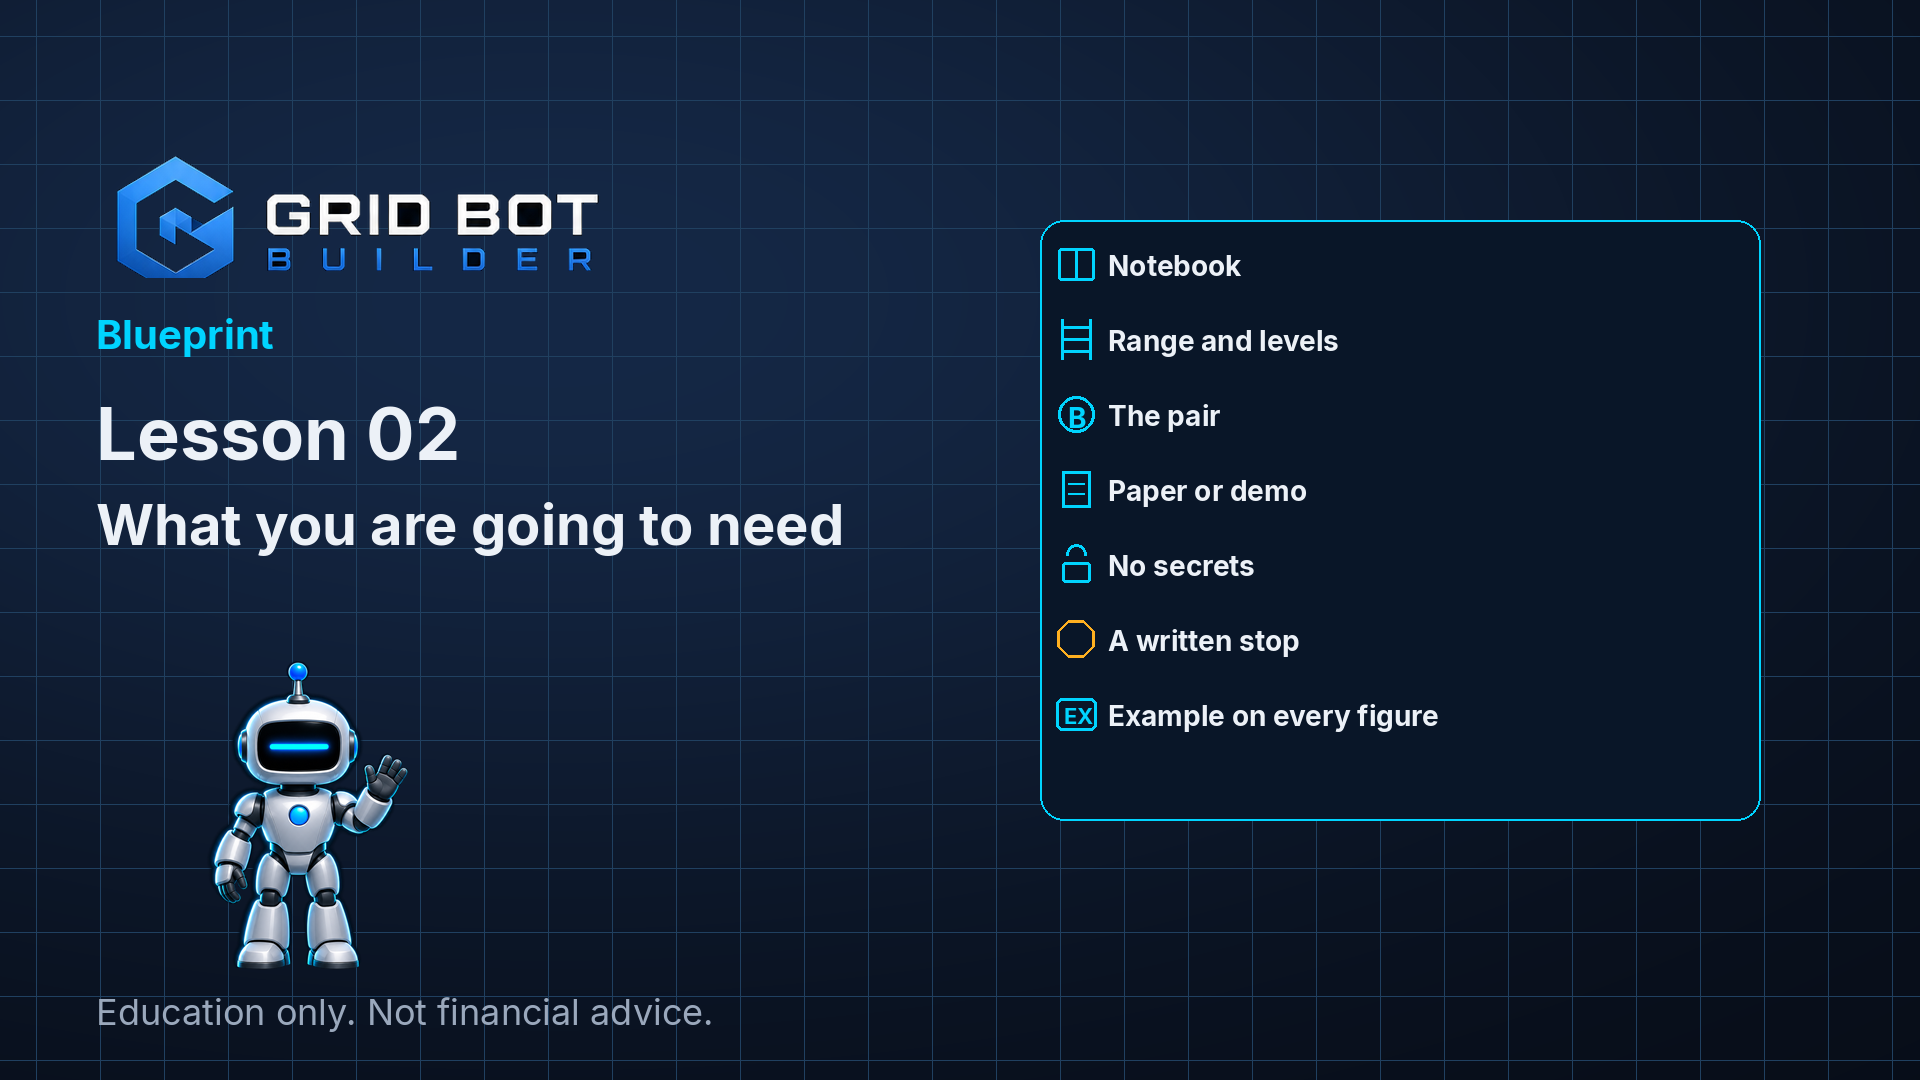
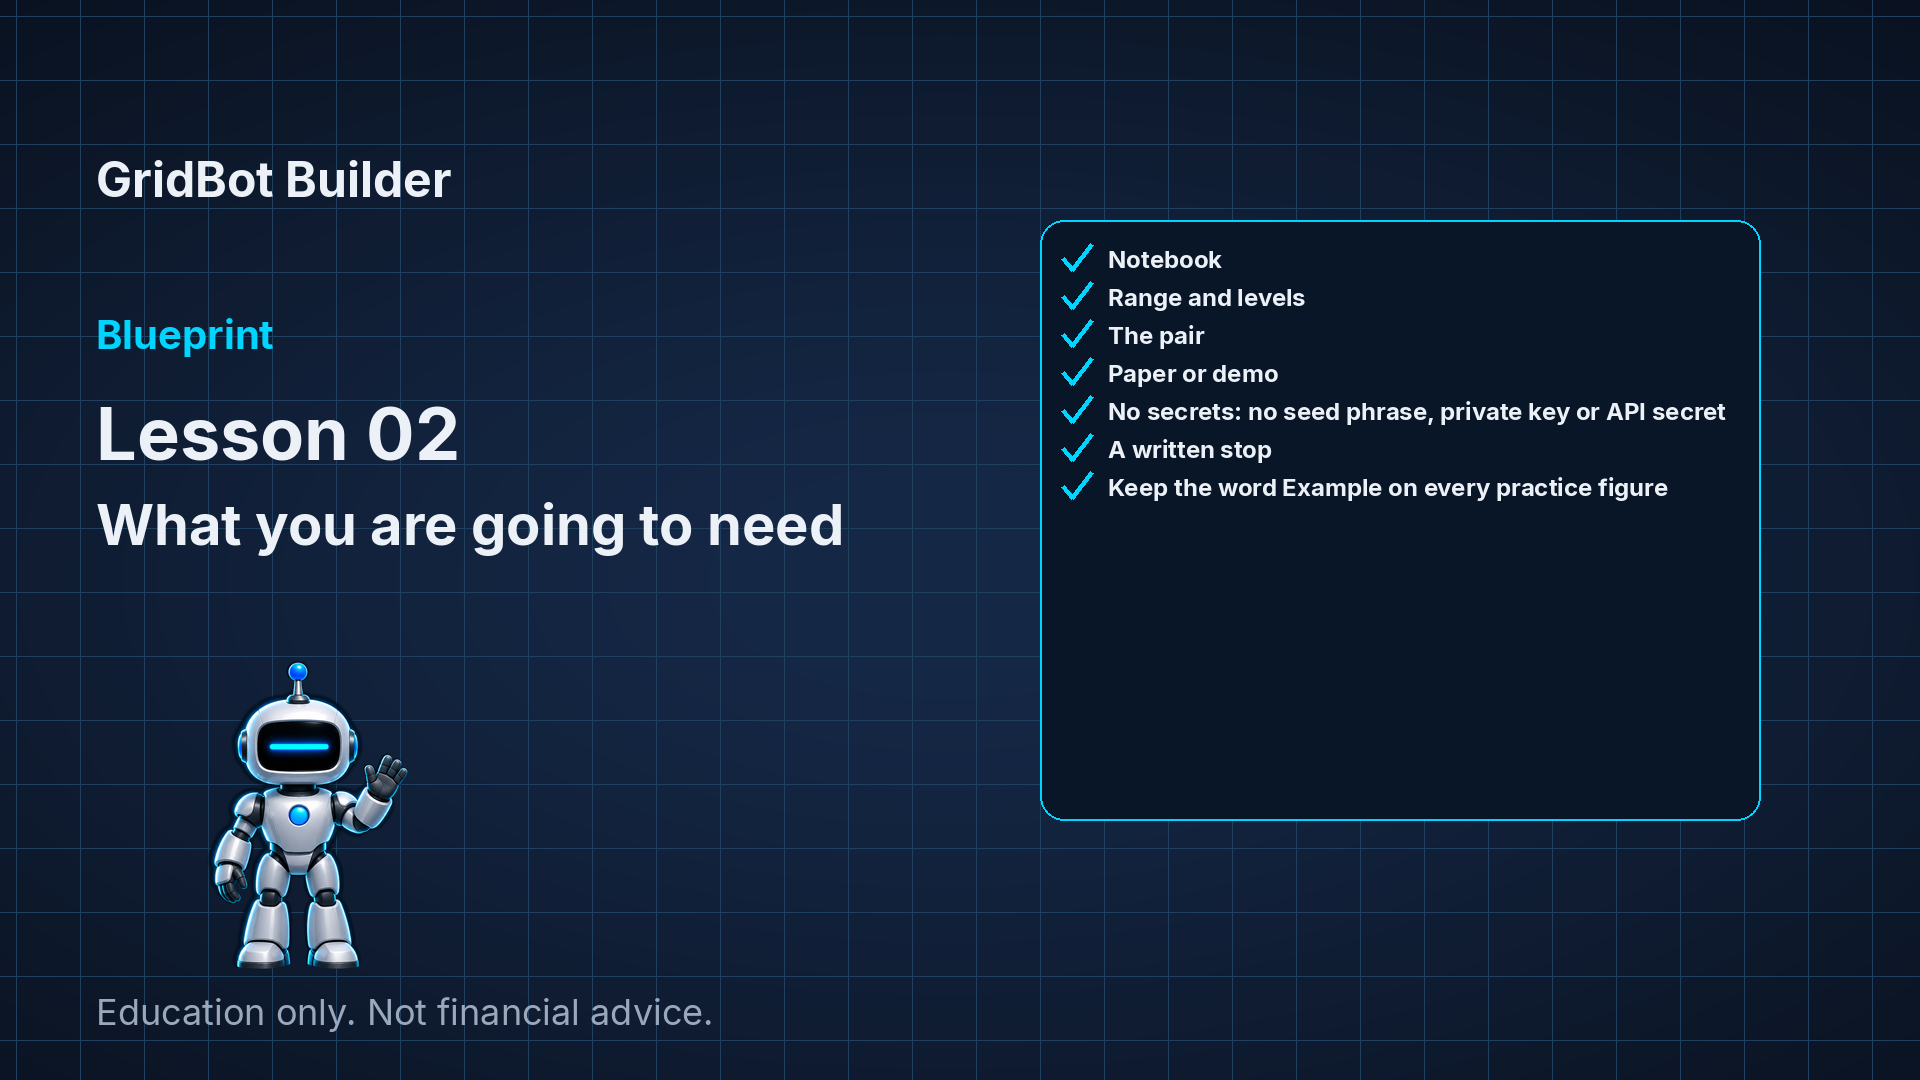
Recolour the ten BP-02 stills Creative Studio failed.
Navy, cyan and white only. The checklist, band card and say-the-page card match the lesson. The two pictures that passed are unchanged, and BP-02 is not rendered.

diff --git a/course/blueprint-rebuild/studio.py b/course/blueprint-rebuild/studio.py
@@ -1445,8 +1445,8 @@ def paint_disclaimer(base: Image.Image, shot: dict, local: float) -> None:
 
 
 def _tick(draw: ImageDraw.ImageDraw, x: int, y: int) -> None:
-    """A plain tick. The old checklist used letter marks such as B and EX."""
-    draw.line([(x - 14, y), (x - 4, y + 12), (x + 16, y - 14)], fill=MINT, width=4)
+    """A plain tick. Navy, cyan and white only."""
+    draw.line([(x - 14, y), (x - 4, y + 12), (x + 16, y - 14)], fill=CYAN, width=4)
 
 
 def _row_icon(draw: ImageDraw.ImageDraw, x: int, y: int, kind: str) -> None:
@@ -1473,10 +1473,29 @@ def _row_icon(draw: ImageDraw.ImageDraw, x: int, y: int, kind: str) -> None:
         draw.rounded_rectangle([x - 14, y - 2, x + 14, y + 18], 3, outline=CYAN, width=3)
         draw.arc([x - 10, y - 20, x + 10, y + 2], 180, 0, fill=CYAN, width=3)
     elif kind == "stop":
-        draw.regular_polygon((x, y, 20), 8, outline=AMBER, width=3)
+        draw.regular_polygon((x, y, 20), 8, outline=WHITE, width=3)
+        draw.regular_polygon((x, y, 12), 8, outline=CYAN, width=3)
     else:
         draw.rounded_rectangle([x - 20, y - 16, x + 20, y + 16], 6, outline=CYAN, width=3)
         draw.text((x - 12, y - 12), "EX", font=font(22), fill=CYAN)
+
+
+def paint_copy_band(base: Image.Image) -> None:
+    """The page copies the band, not every day's price."""
+    draw = ImageDraw.Draw(base)
+    box = (MX, 200, RIGHT, 760)
+    draw.rounded_rectangle(box, 22, fill=GLASS, outline=CYAN, width=2)
+    draw.text((box[0] + 36, box[1] + 28), "Copy the band", font=font(48), fill=WHITE)
+    rows = (
+        "Top 30,331",
+        "Bottom 24,930",
+        "Six gaps of about 900",
+    )
+    y = box[1] + 140
+    for row in rows:
+        draw.text((box[0] + 36, y), row, font=font(40), fill=CYAN)
+        y += 80
+    _example(draw, box[0] + 36, y + 20)
 
 
 def paint_board(base: Image.Image, shot: dict) -> None:
@@ -1493,34 +1512,50 @@ def paint_board(base: Image.Image, shot: dict) -> None:
             "6. The stop, written as a sentence.",
             "7. The word Example on every figure.",
         ]
-        draw.text((MX + 80, 186), "These are the seven lines on the page.", font=font(32), fill=WHITE)
+        draw.text((MX + 80, 186), "Seven items", font=font(40), fill=WHITE)
         y = 240
         for row in rows:
             draw.rounded_rectangle([MX, y, RIGHT, y + 68], 12, fill=GLASS, outline=LINE, width=2)
             _tick(draw, 130, y + 34)
             draw.text((188, y + 16), row, font=font(32), fill=WHITE)
-            draw.ellipse([1760, y + 16, 1796, y + 52], outline=MINT, width=3)
-            draw.line([(1768, y + 34), (1778, y + 44), (1790, y + 24)], fill=MINT, width=3)
+            draw.ellipse([1760, y + 16, 1796, y + 52], outline=CYAN, width=3)
+            draw.line([(1768, y + 34), (1778, y + 44), (1790, y + 24)], fill=CYAN, width=3)
             y += 76
         return
     if board == "no-secrets":
-        draw.text((MX, 176), "Never on the page", font=font(32), fill=AMBER)
-        draw.text((1040, 176), "Allowed on the page", font=font(32), fill=MINT)
+        draw.text((MX, 176), "Never on the page", font=font(32), fill=WHITE)
+        draw.text((1040, 176), "Allowed on the page", font=font(32), fill=CYAN)
         banned = ["Seed phrase", "Private key", "API secret", "Account balance"]
         allowed = ["Public daily close", "The word Example", "A figure marked Example"]
         y = 230
         for text in banned:
-            draw.rounded_rectangle([MX, y, 980, y + 100], 14, fill=GLASS, outline=AMBER, width=2)
-            draw.line([(MX + 28, y + 28), (MX + 56, y + 56)], fill=AMBER, width=4)
-            draw.line([(MX + 56, y + 28), (MX + 28, y + 56)], fill=AMBER, width=4)
+            draw.rounded_rectangle([MX, y, 980, y + 100], 14, fill=GLASS, outline=WHITE, width=2)
+            draw.line([(MX + 28, y + 28), (MX + 56, y + 56)], fill=WHITE, width=4)
+            draw.line([(MX + 56, y + 28), (MX + 28, y + 56)], fill=WHITE, width=4)
             draw.text((MX + 76, y + 30), text, font=font(36), fill=WHITE)
             y += 112
         y = 230
         for text in allowed:
-            draw.rounded_rectangle([1040, y, RIGHT, y + 100], 14, fill=GLASS, outline=MINT, width=2)
-            draw.line([(1070, y + 52), (1082, y + 64), (1102, y + 36)], fill=MINT, width=4)
+            draw.rounded_rectangle([1040, y, RIGHT, y + 100], 14, fill=GLASS, outline=CYAN, width=2)
+            draw.line([(1070, y + 52), (1082, y + 64), (1102, y + 36)], fill=CYAN, width=4)
             draw.text((1120, y + 30), text, font=font(32), fill=WHITE)
             y += 112
+        return
+    if board == "say-the-page":
+        draw.text((MX, 180), "Say the page", font=font(40), fill=WHITE)
+        rows = (
+            "Pair: bitcoin, public daily closes.",
+            "Band: 24,930 to 30,331.",
+            "Gaps: six, about 900.",
+            "Stop: two daily closes outside, then stop the bot.",
+            "No secrets on this page.",
+        )
+        y = 260
+        for row in rows:
+            draw.rounded_rectangle([MX, y, RIGHT, y + 88], 14, fill=GLASS, outline=CYAN, width=2)
+            draw.text((MX + 28, y + 24), row, font=font(32), fill=WHITE)
+            y += 100
+        _example(draw, MX, y + 8)
         return
     if board == "three-words":
         cards = [
@@ -1875,23 +1910,30 @@ def paint_analogy(base: Image.Image, shot: dict, local: float, dur: float) -> No
     origin = (MX, 230)
     kind = shot.get("analogy") or ""
     if kind == "list":
-        still = shot.get("still")
-        if still:
-            panel, _ox, _oy, _scale = _contain(load_picture(Path(still)).convert("RGB"), pw, ph)
-            base.paste(panel, origin)
-            _retouch_analogy(draw, "list", origin)
-        page = (origin[0] + pw + 24, 200, RIGHT, 760)
-        draw.rounded_rectangle(page, 20, fill=GLASS, outline=CYAN, width=2)
-        draw.text((page[0] + 28, page[1] + 28), "Write the page before any screen", font=font(32), fill=WHITE)
-        rows = (("Band", "24,930 to 30,331"), ("Levels", "Six gaps. About 900."), ("Stop", "The close leaves 30,331."))
-        y = page[1] + 110
-        for name, value in rows:
-            draw.text((page[0] + 36, y), name, font=font(36), fill=CYAN)
-            draw.text((page[0] + 240, y), value, font=font(36), fill=WHITE)
-            y += 80
-        pill = font(36)
-        pill_w = int(pill.getlength("EXAMPLE")) + 36
-        _example(draw, page[2] - pill_w - 28, page[1] + 36)
+        # Seven lines on the left, six gaps on the right. No amber stop sign.
+        left = (MX, 200, MX + 900, 760)
+        right = (MX + 940, 200, RIGHT, 760)
+        draw.rounded_rectangle(left, 20, fill=GLASS, outline=CYAN, width=2)
+        draw.rounded_rectangle(right, 20, fill=GLASS, outline=CYAN, width=2)
+        draw.text((left[0] + 28, left[1] + 24), "Seven lines", font=font(36), fill=WHITE)
+        items = (
+            "1 Notebook",
+            "2 Range, levels, stop",
+            "3 The pair",
+            "4 Paper or a demo",
+            "5 No secrets",
+            "6 A written stop",
+            "7 Example on every figure",
+        )
+        y = left[1] + 90
+        for item in items:
+            draw.text((left[0] + 36, y), item, font=font(32), fill=CYAN)
+            y += 72
+        draw.text((right[0] + 28, right[1] + 24), "Six gaps", font=font(36), fill=WHITE)
+        draw.text((right[0] + 28, right[1] + 120), "About 900 dollars", font=font(40), fill=WHITE)
+        draw.text((right[0] + 28, right[1] + 200), "Top 30,331", font=font(36), fill=CYAN)
+        draw.text((right[0] + 28, right[1] + 260), "Bottom 24,930", font=font(36), fill=CYAN)
+        _example(draw, right[0] + 28, right[1] + 360)
         return
     chart_box = (origin[0] + pw + 24, 180, RIGHT, 752)
     still = shot.get("still")
@@ -2047,7 +2089,8 @@ def paint_lesson_thumb(shot: dict, dest: Path) -> Path:
         chip_beside=(number == 3),
     )
     draw = ImageDraw.Draw(image)
-    draw.text((48, 660), FOOT, font=font(28, "reg"), fill=MUTED)
+    # 45px clear of the bottom edge. The type is 28px, so the top sits at 640.
+    draw.text((48, 640), FOOT, font=font(28, "reg"), fill=MUTED)
     dest.parent.mkdir(parents=True, exist_ok=True)
     image.save(dest)
     return dest
@@ -2494,8 +2537,13 @@ def paint(shot: dict, local: float, progress: float) -> np.ndarray:
         draw_footer(ImageDraw.Draw(img))
     else:
         title_bar(img, shot, progress)
-        if shot.get("board") in {"seven-lines", "no-secrets", "three-words"}:
+        if shot.get("board") in {"seven-lines", "no-secrets", "three-words", "say-the-page"}:
             paint_board(img, shot)
+        elif (
+            shot.get("lesson_id") == "bp-02-what-you-need"
+            and (shot.get("chapter") or "") == "Copy the path"
+        ):
+            paint_copy_band(img)
         elif shot.get("candle"):
             paint_candle(img, shot, local)
         else:

diff --git a/course/blueprint-rework/lesson_scripts.py b/course/blueprint-rework/lesson_scripts.py
@@ -589,6 +589,7 @@ def bp02() -> list[dict]:
     ))
     s.append(_shot(
         chapter="Say the page",
+        board="say-the-page",
         reveal=1,
         vo=(
             "Say the page once, in your own words, and do not read the chart again. "

diff --git a/course/CHANGES-16NOV.md b/course/CHANGES-16NOV.md
@@ -1,5 +1,9 @@
 # Changes, 16 November 2026
 
+## BP-02 stills recoloured, not rendered
+
+Ten pictures Creative Studio failed were rebuilt in navy, cyan and white. `001.png` and the end card were left as scored. BP-02 is not rendered. The spoken script is unchanged. The extra teaching is only in `course/BP02-DRAFT-ADDITIONS.md`.
+
 ## BP-01 approved lines, 20 Nov
 
 Stewart approved five lines. The hook now includes the sideways-bounce sentence. The stop shot says the stop is the written rule for when you stop the bot. The no-promise line says numbers marked Example are teaching numbers, not advice. The map says "Steps one to six" and "Steps seven to eleven" just before the paper test, and the late second reading is gone. Your turn restores the line about drawing the idea and copying it only on paper or demo. The daily-close line is unchanged. `course/BP02-DRAFT-ADDITIONS.md` is a draft only and is not spoken.
